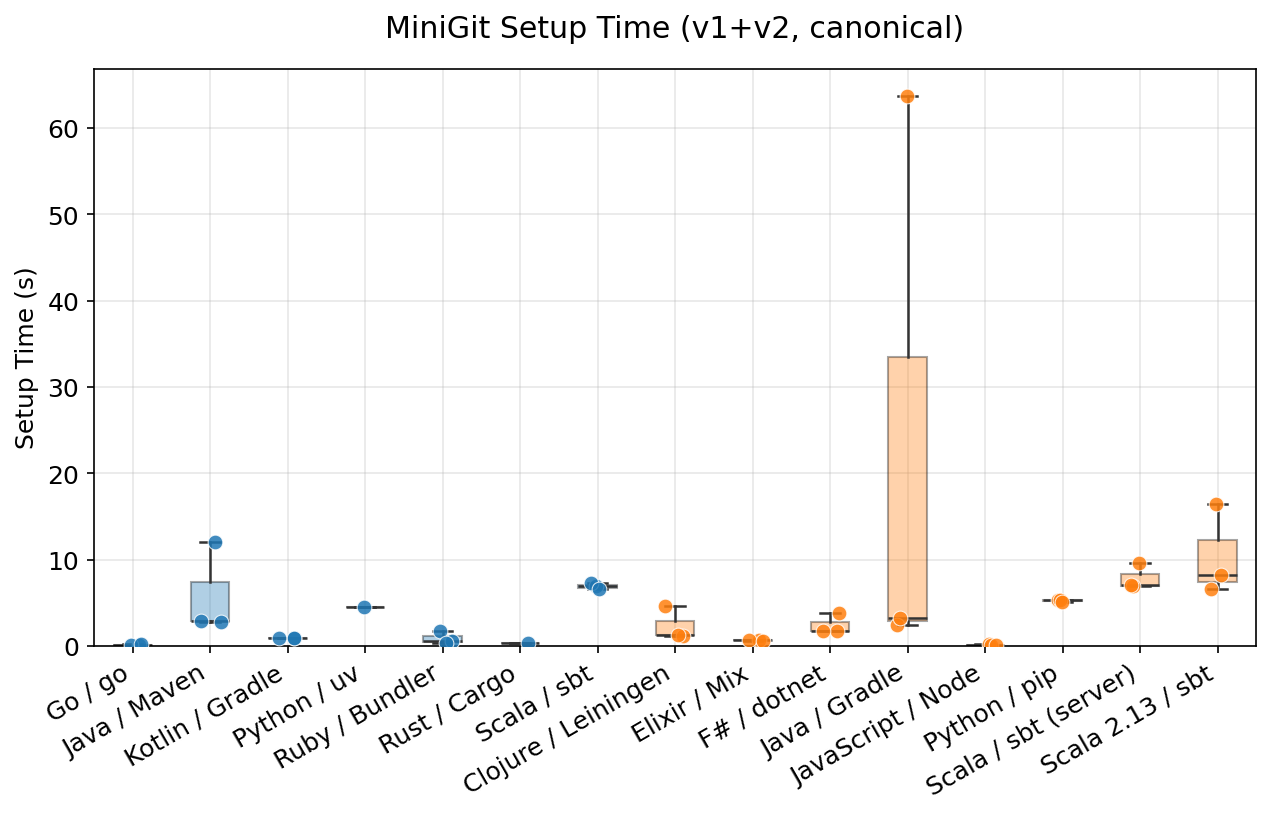
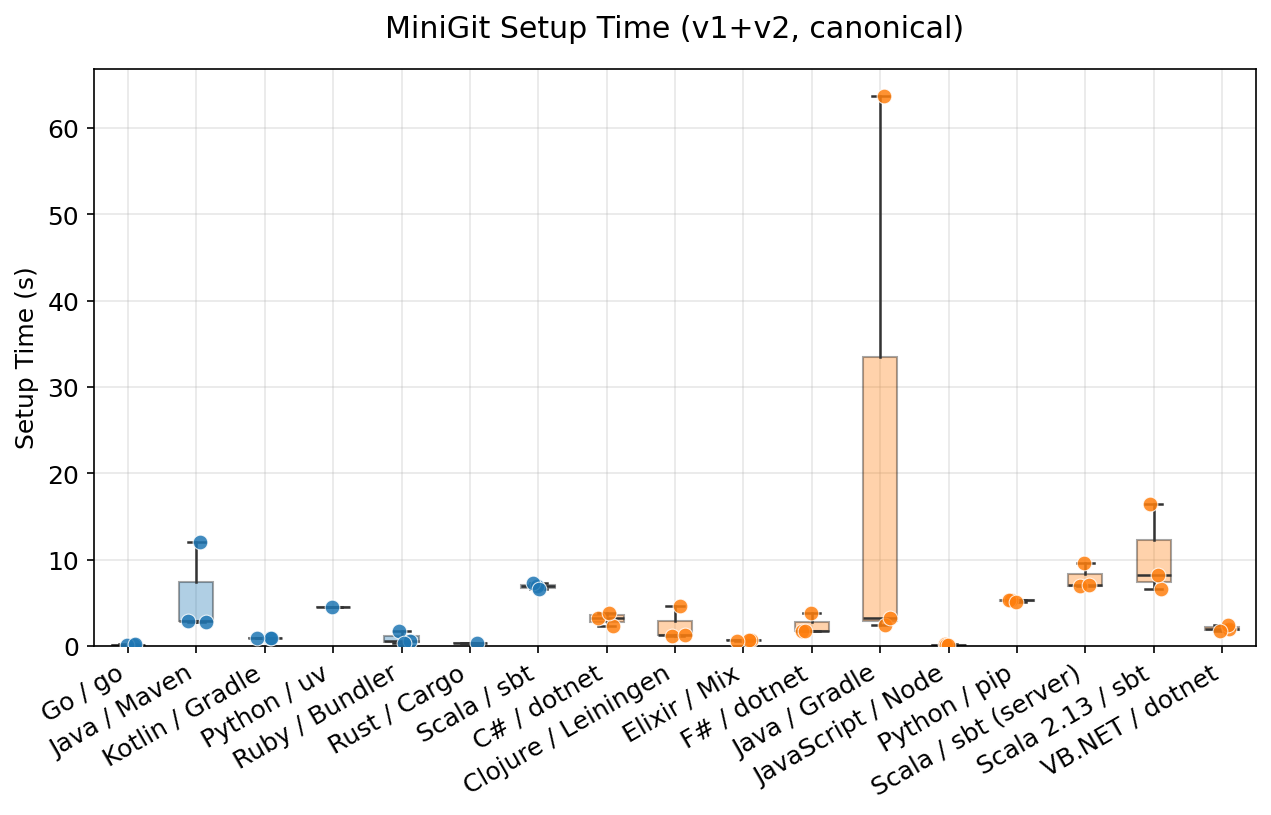
Add C# and VB.NET results; Finding #6: .NET consistency
C#: 276.9s ±47.7s, 353 LOC
VB.NET: 294.5s ±23.4s, 342 LOC

All three .NET languages (F#/C#/VB.NET) within 37s of each other.
VB.NET achieves 100% pass rate despite being a niche language today.
F# is fastest and most concise (~256 LOC vs ~350 for C#/VB.NET).

diff --git a/README.md b/README.md
@@ -35,7 +35,9 @@ Each workflow was run **3 trials** (except Python/uv: 1 trial). All runs achieve
 | Elixir / Mix | 227.0s | ±35.9s | 271 | 83.9s | dynamic |
 | Kotlin / Gradle | 234.1s | ±9.9s | 264 | 88.7s | static |
 | F# / dotnet | 258.0s | ±22.9s | 256 | 100.8s | static (functional) |
+| C# / dotnet | 276.9s | ±47.7s | 353 | 78.5s | static |
 | Java / Maven | 272.6s | ±40.5s | 271 | 100.7s | static |
+| VB.NET / dotnet | 294.5s | ±23.4s | 342 | 86.1s | static |
 | Scala 3 / sbt | 321.0s | ±42.6s | 256 | 125.4s | static |
 | Java / Gradle | 342.3s | ±80.0s | 328 | 104.4s | static |
 | Scala 2.13 / sbt | 379.4s | ±65.0s | 239 | 158.7s | static |
@@ -62,6 +64,9 @@ Within the JVM ecosystem alone, agent time ranges from 234s (Kotlin) to 379s (Sc
 **5. F# (static functional) outperforms Clojure (dynamic functional) by 135s.**
 F#/.NET 9 (258.0s ±22.9s) is substantially faster than Clojure/Leiningen (392.8s ±54.0s), despite both being functional languages. F# produces concise code (~256 LOC, comparable to dynamic languages) while retaining static typing. The `dotnet publish --self-contained` pipeline has low per-cycle latency, contributing to the speed advantage. This directly refutes any claim that functional style inherently favours dynamic typing for AI generation tasks.
 
+**6. The .NET ecosystem is remarkably consistent across languages.**
+F# (258s), C# (277s), and VB.NET (295s) all finish within 37 seconds of each other despite being very different languages in style and modern popularity. VB.NET — now a relatively niche language — achieves 100% pass rates and competitive timings, suggesting Claude's training data is sufficient for even less-common .NET languages. F#'s edge likely comes from its more concise output (~256 LOC vs ~350 for C#/VB.NET).
+
 ### LOC-Normalised Agent Time
 
 ![Time per 100 LOC](./figures/time_per_100loc.png)
@@ -76,7 +81,7 @@ Setup time is negligible for most workflows. The exception is Scala/sbt (≈7s s
 
 ## Status
 
-`results/` and `figures/` now contain canonical-track results for 13 workflows (see table above). The legacy greenfield results are preserved in the same `results.json` under `"track": "greenfield"` for continuity.
+`results/` and `figures/` now contain canonical-track results for 15 workflows (see table above). The legacy greenfield results are preserved in the same `results.json` under `"track": "greenfield"` for continuity.
 
 The benchmark harness separates:
 
